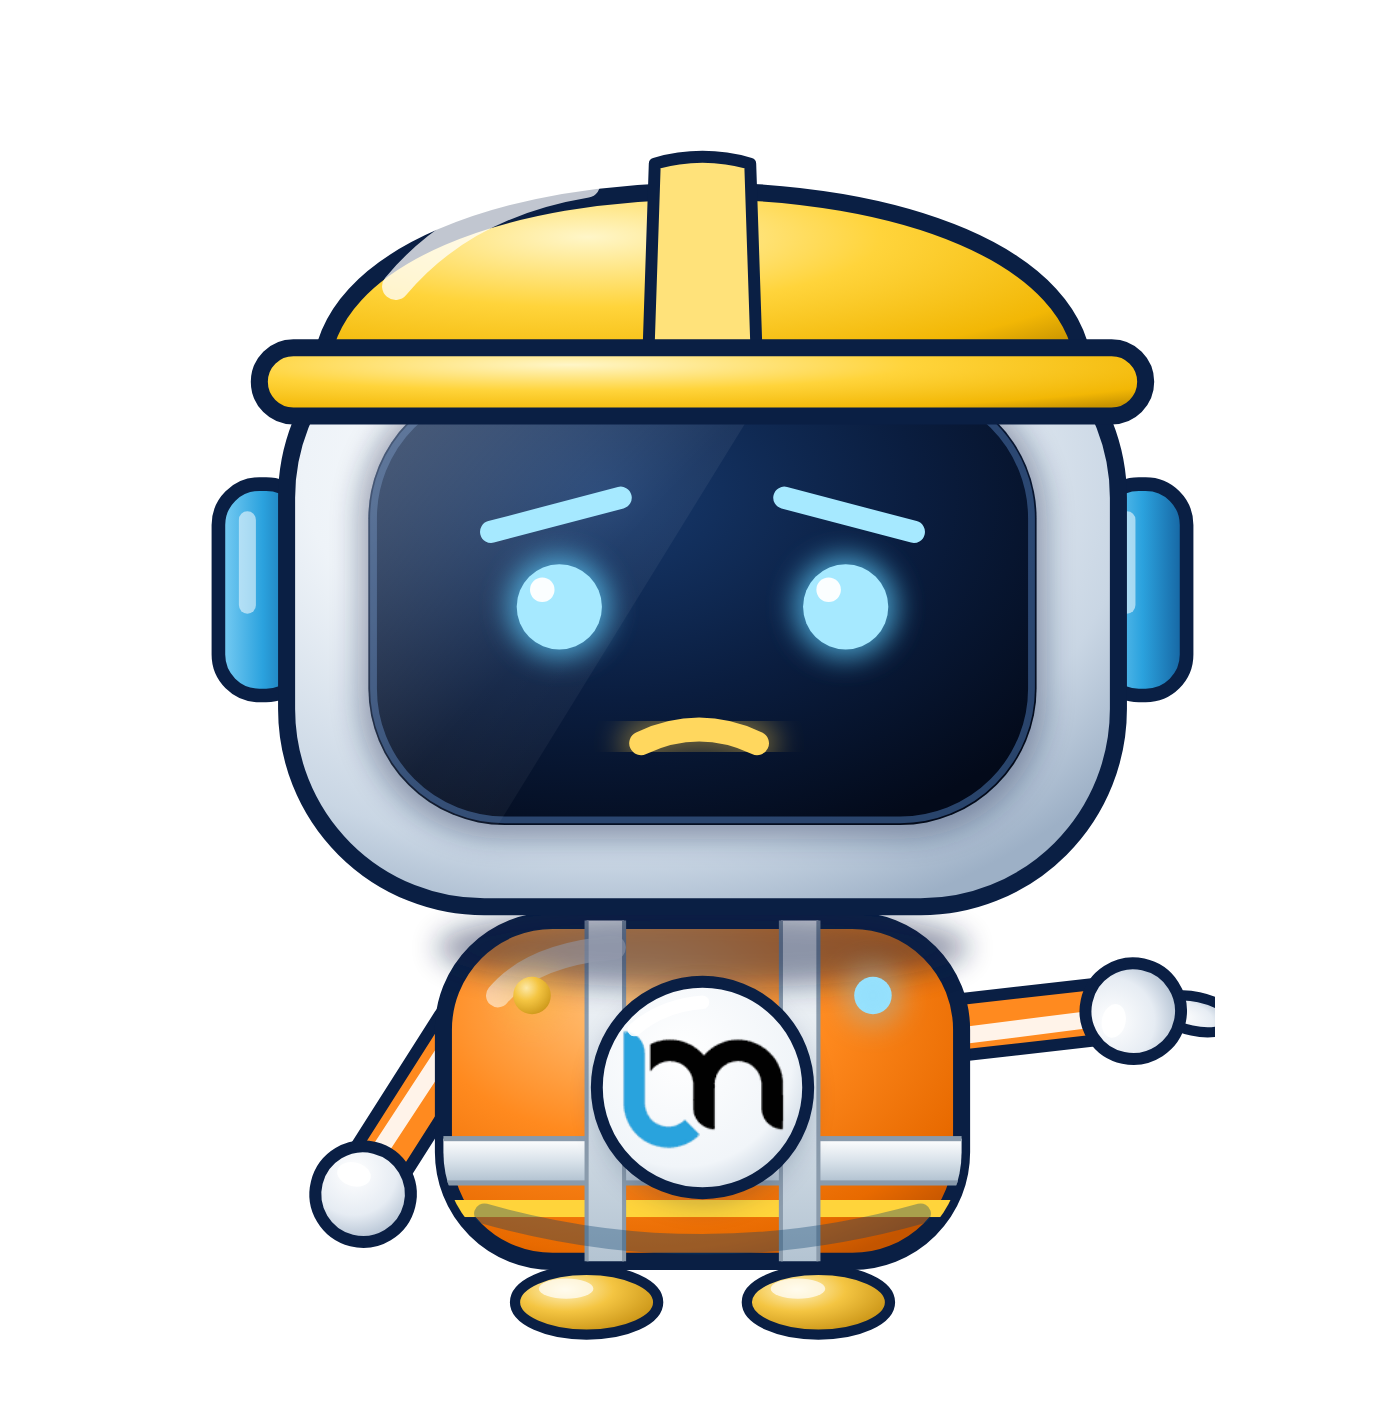
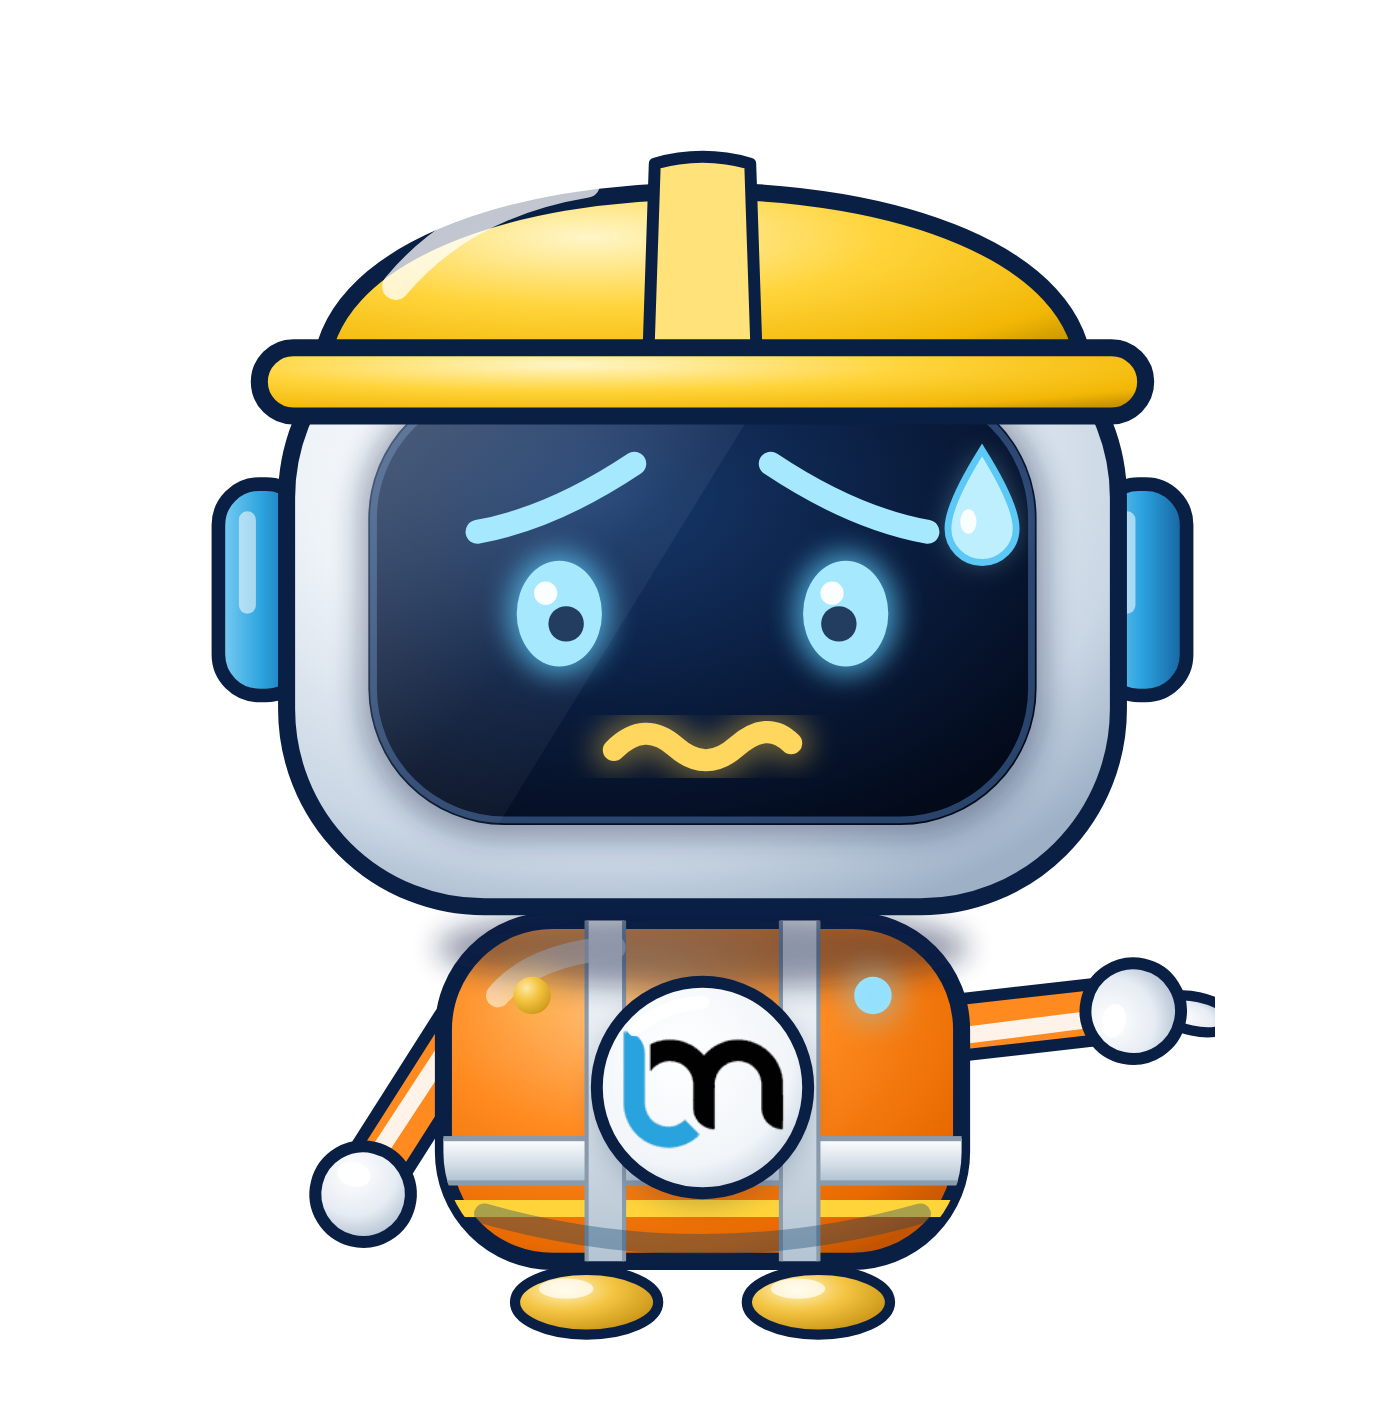
Scam Alert Howie: clearly concerned face (worried brows, wide eyes, wobbly mouth, sweat drop)
Claude-Session: https://claude.ai/code/session_018UP1NUPFGMxU7XRsgwSSZP

diff --git a/daily-social/engine/render_carousel.py b/daily-social/engine/render_carousel.py
@@ -14,7 +14,7 @@ spec = {
   "cta": {"head": "Want this done for you?", "sub": "One line.", "button": "lewismarketingoc.com"},
   "sources": ["FTC consumer alert, Nov 2026"]      # alert: required, printed on the last slide; playbook: any stat sources
 }
-Howie is on the cover and the last slide. Scam Alert Howie (Michael's rule, Nov 14, 2026): never smiling, concerned face, yellow hard hat and hi-vis safety vest (howie/howie-safety-*.png, made from howie/howie-safety.svg with shoot2.js). Logo on every slide (all white on blue, two-tone white on navy, color on light).
+Howie is on the cover and the last slide. Scam Alert Howie (Michael's rule, Nov 14, 2026): never smiling, clearly concerned face (raised worried brows, wide eyes, wobbly mouth, sweat drop), yellow hard hat and hi-vis safety vest (howie/howie-safety-*.png, made from howie/howie-safety.svg with shoot2.js). Logo on every slide (all white on blue, two-tone white on navy, color on light).
 """
 import json, os, sys
 HERE = os.path.dirname(os.path.abspath(__file__)); sys.path.insert(0, HERE)
